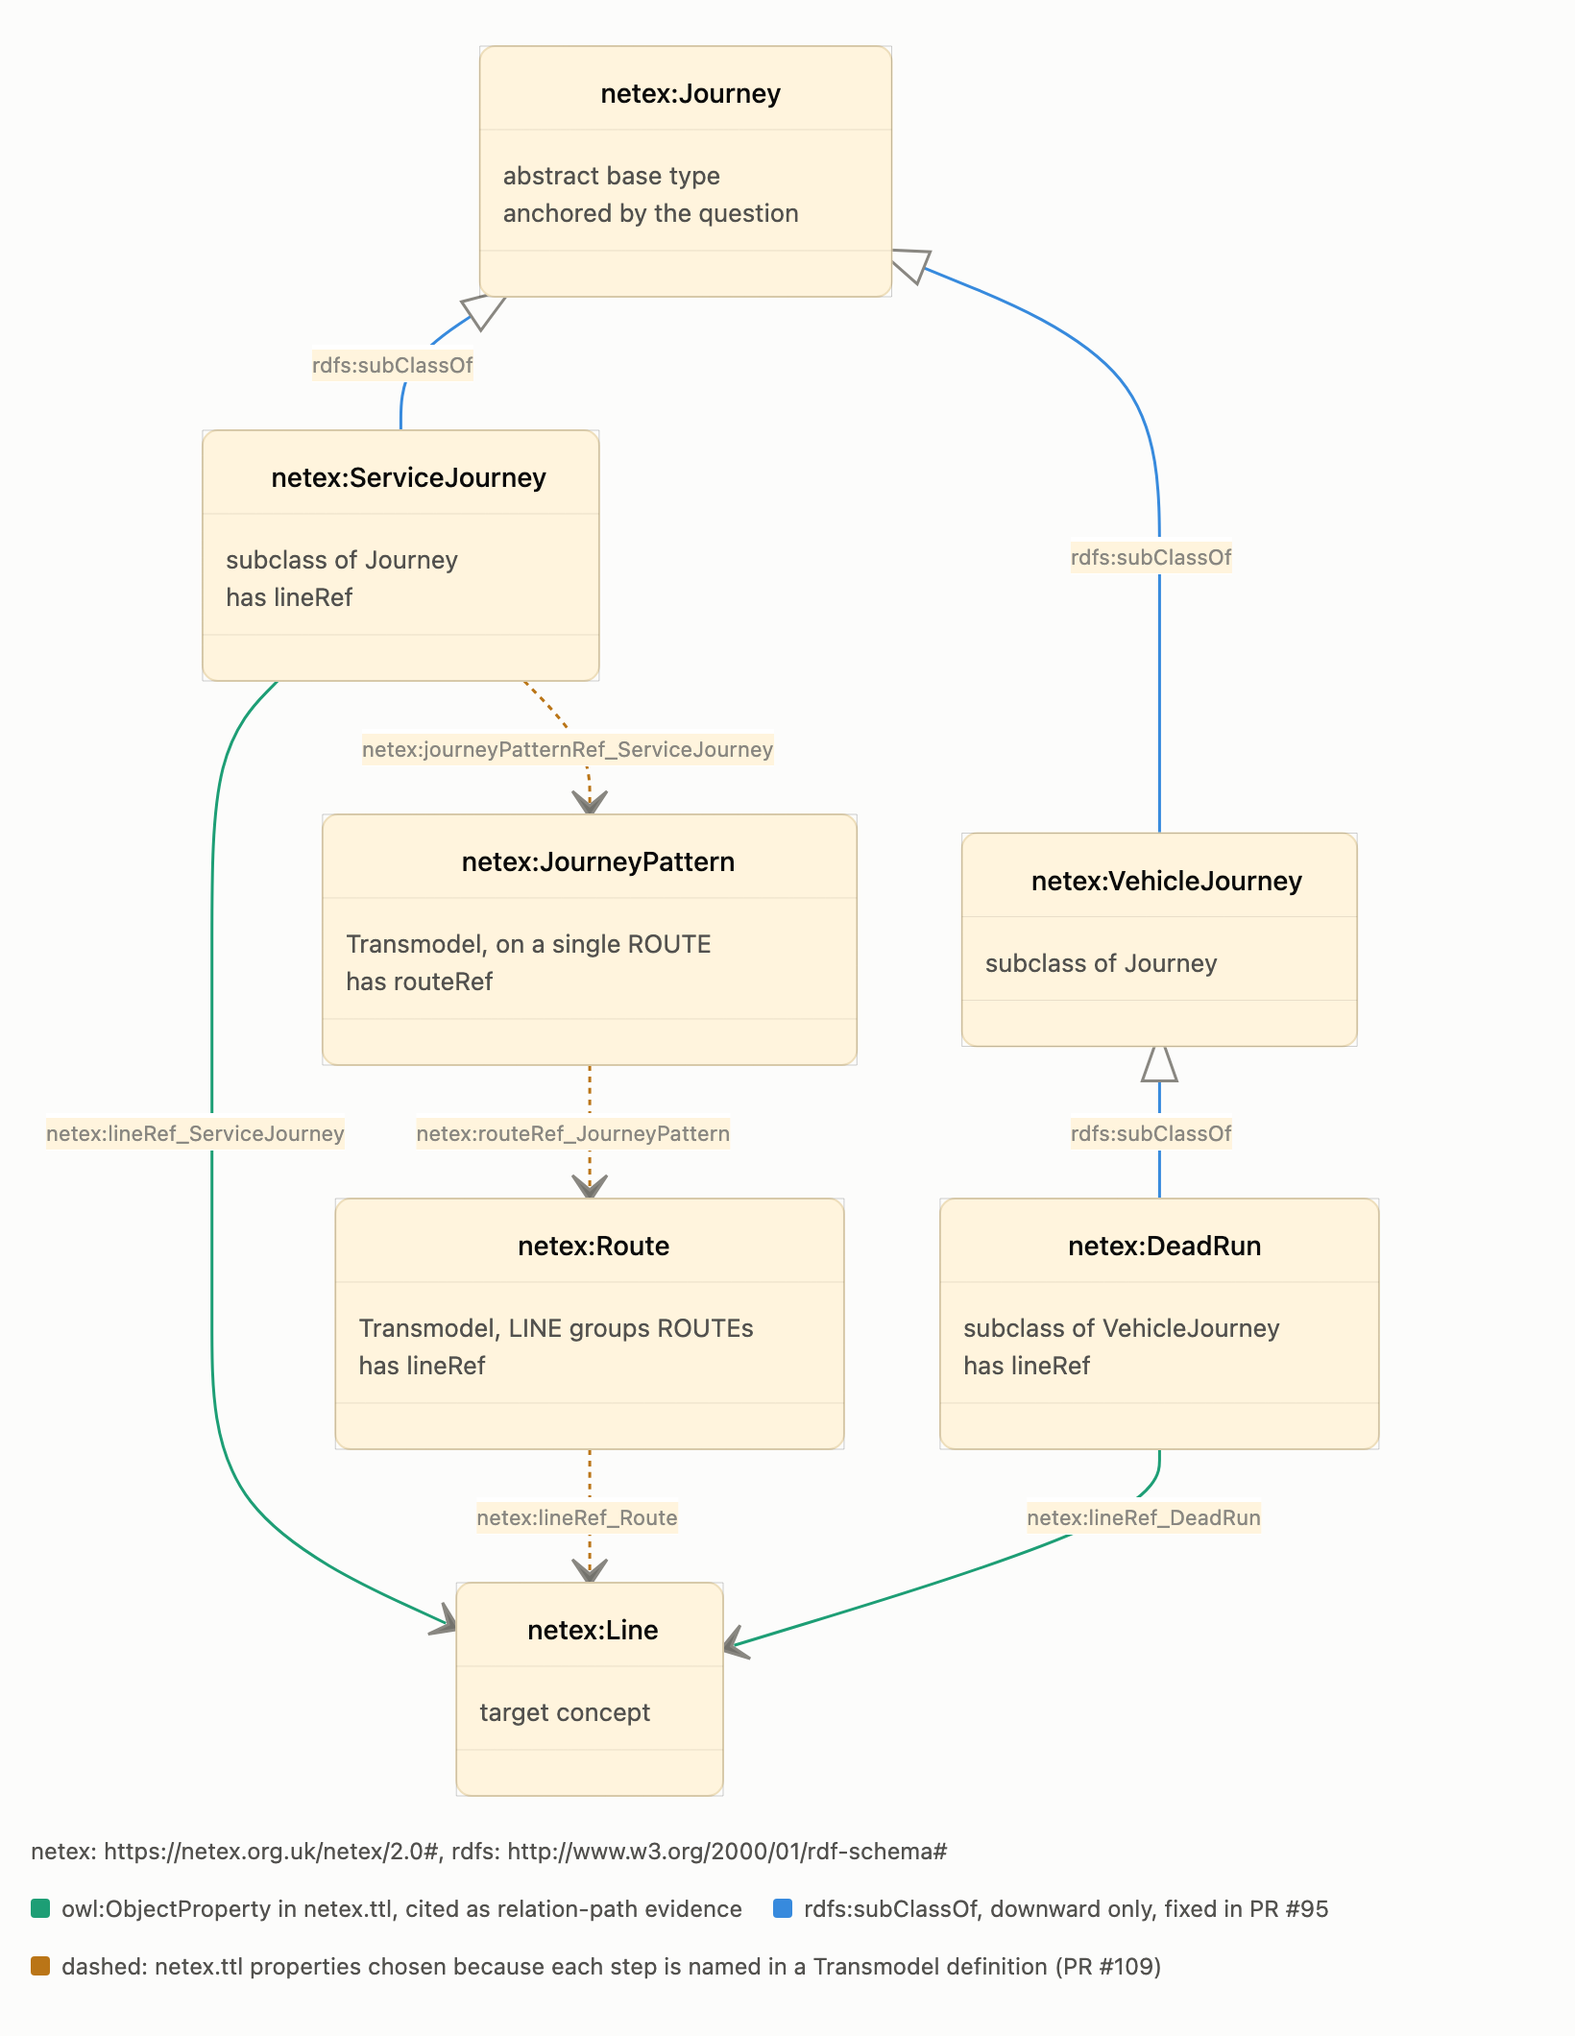
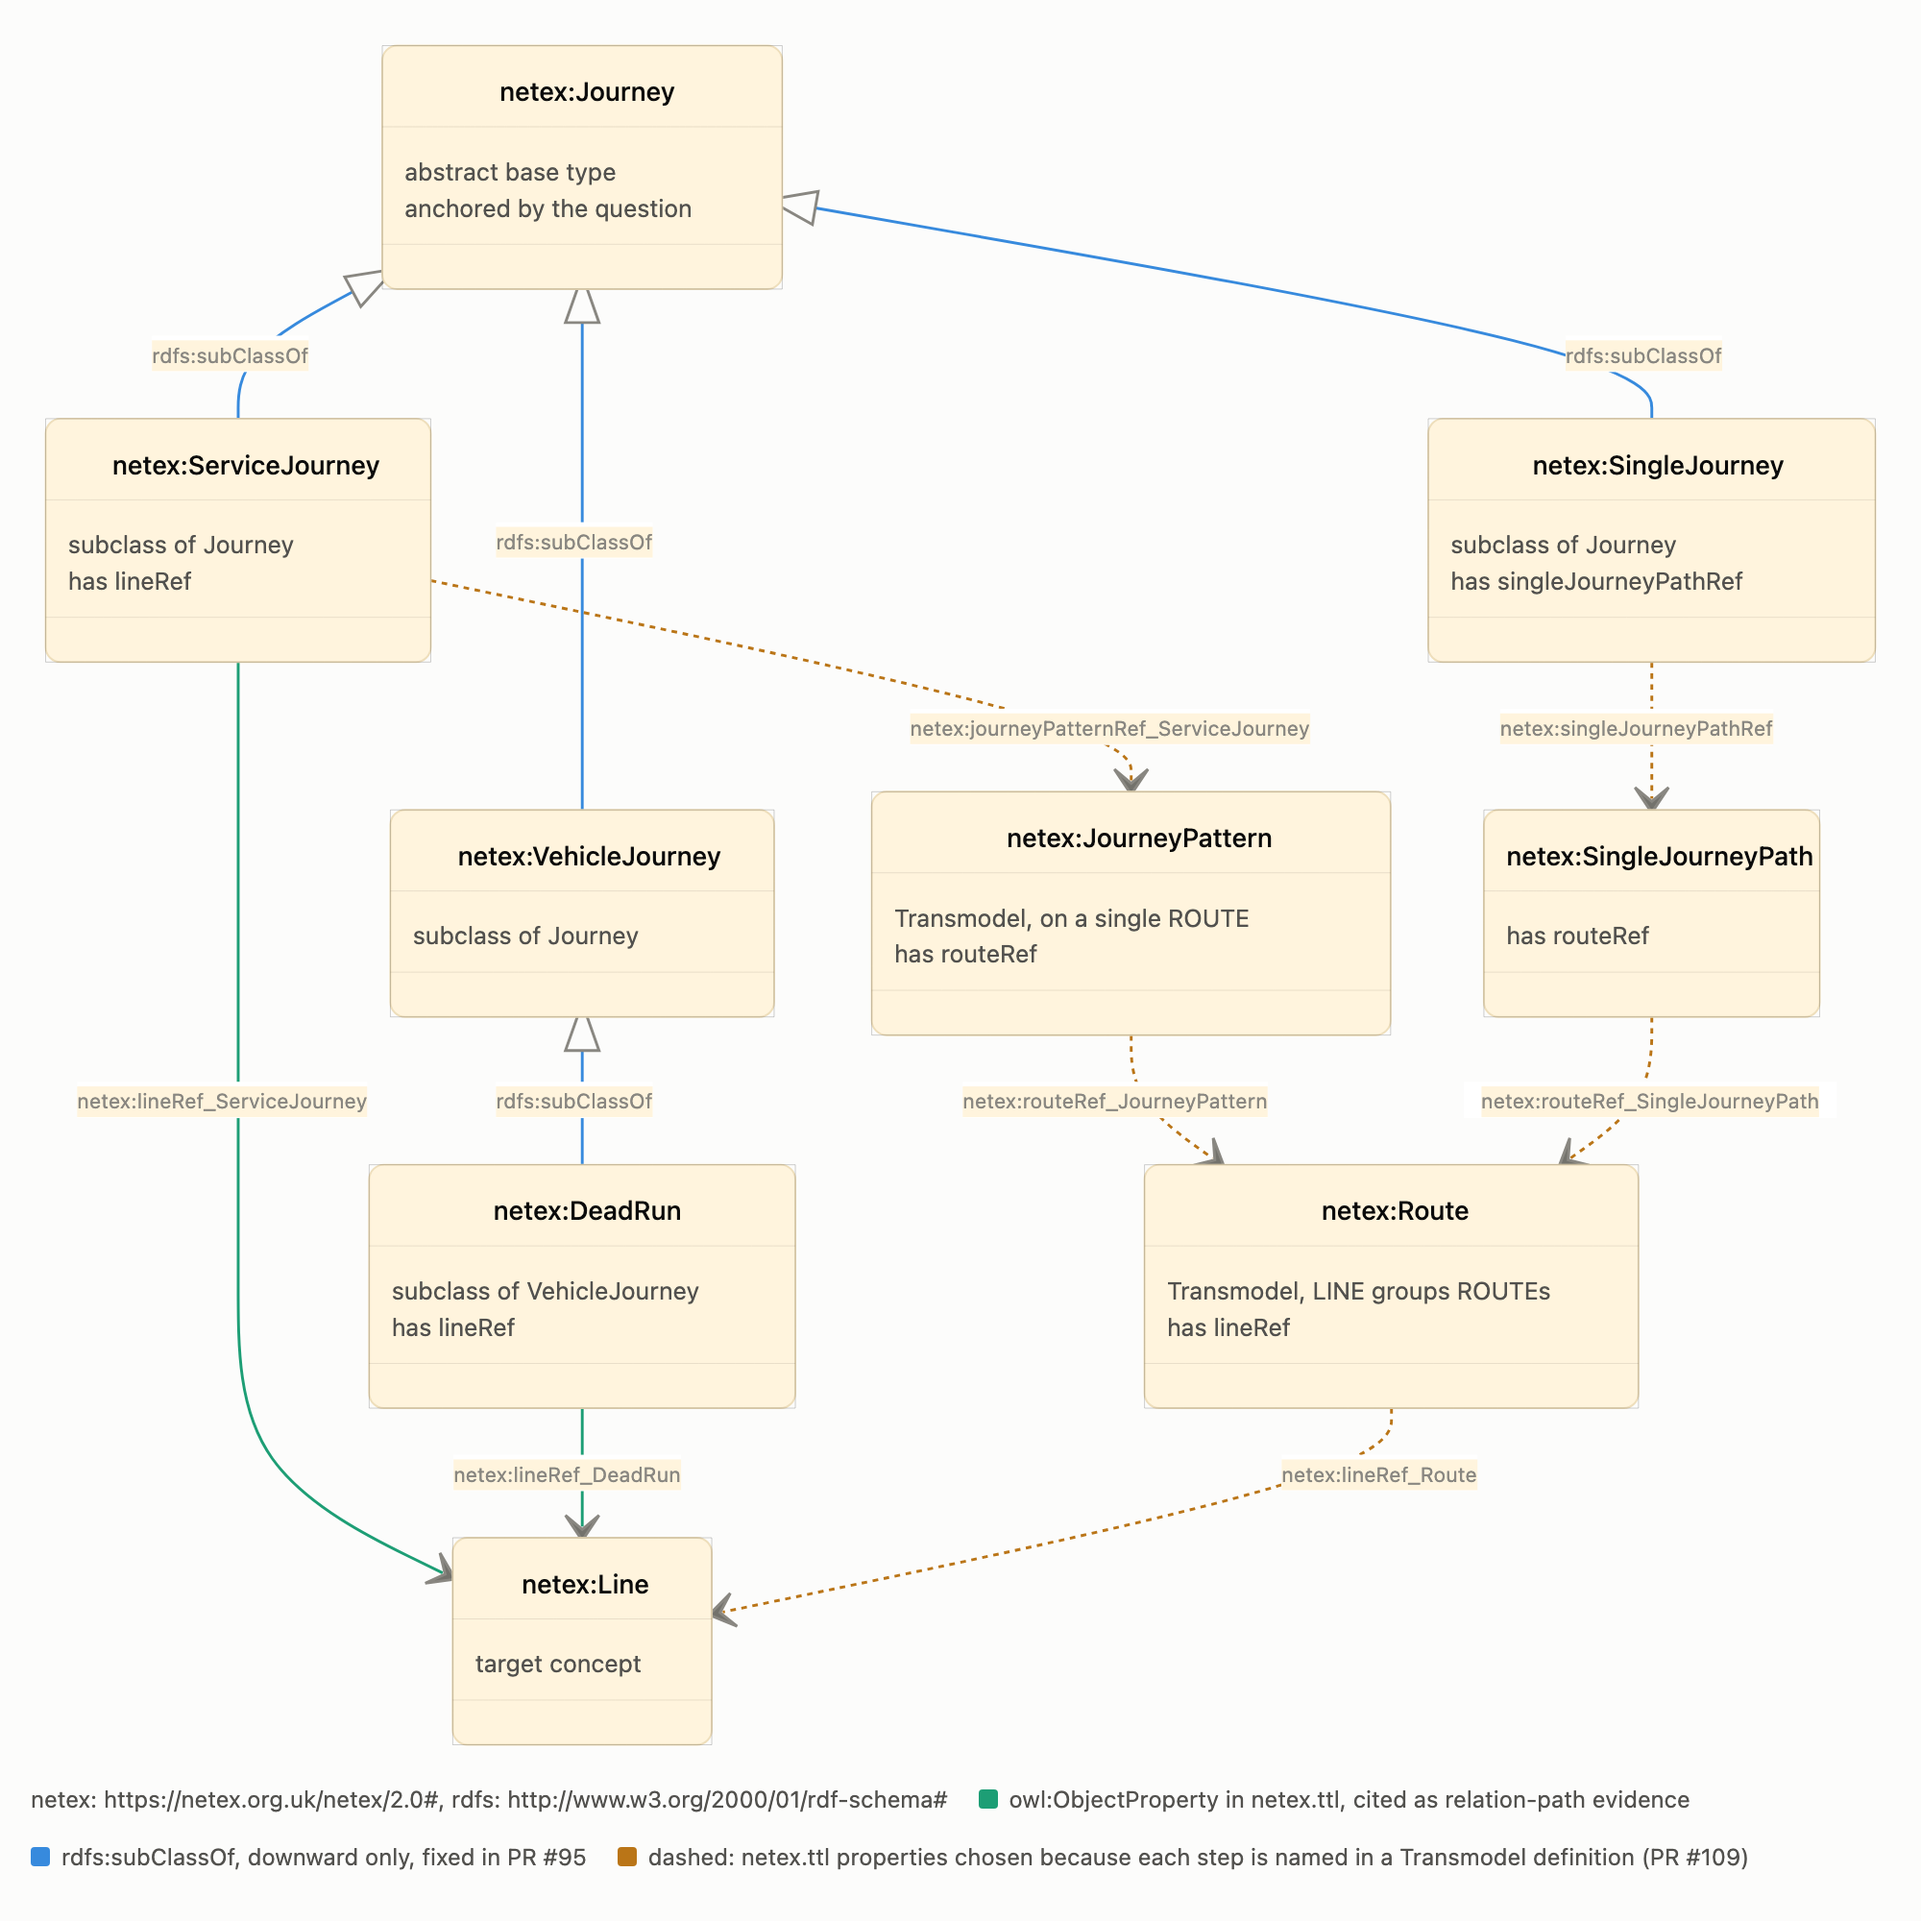
docs(diagrams): add the SingleJourney, SingleJourneyPath, Route, Line chain

diff --git a/docs/diagrams/netex-line-journey-relations.html b/docs/diagrams/netex-line-journey-relations.html
@@ -2584,6 +2584,13 @@ const src = `classDiagram
     subclass of VehicleJourney
     has lineRef
   }
+  class SingleJourney["netex:SingleJourney"] {
+    subclass of Journey
+    has singleJourneyPathRef
+  }
+  class SingleJourneyPath["netex:SingleJourneyPath"] {
+    has routeRef
+  }
   class JourneyPattern["netex:JourneyPattern"] {
     Transmodel, on a single ROUTE
     has routeRef
@@ -2598,11 +2605,14 @@ const src = `classDiagram
   Journey <|-- ServiceJourney : rdfs#colon;subClassOf
   Journey <|-- VehicleJourney : rdfs#colon;subClassOf
   VehicleJourney <|-- DeadRun : rdfs#colon;subClassOf
+  Journey <|-- SingleJourney : rdfs#colon;subClassOf
   ServiceJourney --> Line : netex#colon;lineRef_ServiceJourney
   DeadRun --> Line : netex#colon;lineRef_DeadRun
   ServiceJourney ..> JourneyPattern : netex#colon;journeyPatternRef_ServiceJourney
   JourneyPattern ..> Route : netex#colon;routeRef_JourneyPattern
   Route ..> Line : netex#colon;lineRef_Route
+  SingleJourney ..> SingleJourneyPath : netex#colon;singleJourneyPathRef
+  SingleJourneyPath ..> Route : netex#colon;routeRef_SingleJourneyPath
 `;
 const { svg } = await mermaid.render('cd-svg', src);
 document.getElementById('cd').innerHTML = svg;
@@ -2631,7 +2641,7 @@ document.querySelectorAll('#cd svg.classDiagram .row-rect-odd path, #cd svg.clas
 });
 
 document.querySelectorAll('#cd svg.classDiagram .edgePaths path').forEach((p, i) => {
-  const color = i < 3 ? '#378ADD' : i < 5 ? '#1D9E75' : '#BA7517';
+  const color = i < 4 ? '#378ADD' : i < 6 ? '#1D9E75' : '#BA7517';
   p.style.setProperty('stroke', color, 'important');
   p.style.setProperty('stroke-width', '1.5px', 'important');
 });
